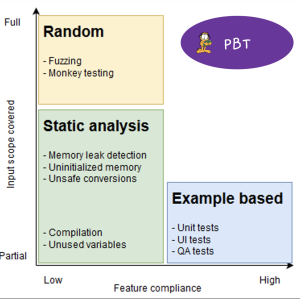
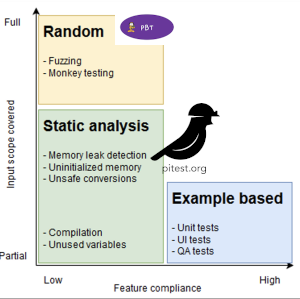
added Pit example

Changed region(s): [[0.36, 0.0301, 0.99, 0.2408], [0.48, 0.3311, 0.75, 0.602]]

diff --git a/src/test/java/com/example/pbt/pit/MathCalculatorTest.java b/src/test/java/com/example/pbt/pit/MathCalculatorTest.java
@@ -1,0 +1,29 @@
+package com.example.pbt.pit;
+
+import org.junit.jupiter.api.Assertions;
+import org.junit.jupiter.api.Test;
+import org.springframework.beans.factory.annotation.Autowired;
+import org.springframework.boot.test.context.SpringBootTest;
+
+@SpringBootTest
+public class MathCalculatorTest {
+
+    @Autowired
+    MathCalculator calc;
+
+    @Autowired
+    MathCalculator2 calc2;
+
+    @Test
+    public void complete() {
+        Assertions.assertEquals(0, calc.getAbsDouble(0, 1));
+        Assertions.assertEquals(12, calc.getAbsDouble(5, 2));
+        Assertions.assertEquals(12, calc.getAbsDouble(-5, 2));
+    }
+
+    @Test
+    public void onlyPositiveCaseTest() {
+        Assertions.assertEquals(12, calc2.getAbsDouble(5, 2));
+    }
+
+}

diff --git a/src/main/java/com/example/pbt/pit/MathCalculator2.java b/src/main/java/com/example/pbt/pit/MathCalculator2.java
@@ -1,0 +1,26 @@
+package com.example.pbt.pit;
+
+import org.springframework.stereotype.Service;
+
+@Service
+public class MathCalculator2 {
+
+    /**
+     * Utility
+     *
+     * @param i the input
+     * @param j param to be added
+     * @return double of absolute input and add second parameterm
+     */
+    public Integer getAbsDouble(Integer i, Integer j) {
+        if (i == 0) return 0;
+
+        int ret = 0;
+
+        if (i < 0) i = i * -1;
+        i = i * 2;
+        i = i + j;
+        return i;
+
+    }
+}

diff --git a/src/main/java/com/example/pbt/pit/MathCalculator.java b/src/main/java/com/example/pbt/pit/MathCalculator.java
@@ -1,0 +1,26 @@
+package com.example.pbt.pit;
+
+import org.springframework.stereotype.Service;
+
+@Service
+public class MathCalculator {
+
+    /**
+     * Utility
+     *
+     * @param i the input
+     * @param j param to be added
+     * @return double of absolute input and add second parameterm
+     */
+    public Integer getAbsDouble(Integer i, Integer j) {
+        if (i == 0) return 0;
+
+        int ret = 0;
+
+        if (i < 0) i = i * -1;
+        i = i * 2;
+        i = i + j;
+        return i;
+
+    }
+}

diff --git a/README.md b/README.md
@@ -6,23 +6,28 @@
 * Lombok&Ereditance (Original idea to solve UC style problem) 
 * System.Logger (Thanks to Baeldung)
 * ehcache4Search (Original idea to solve UC crypt performance problem)
-* PIT testing (Thanks to Decathlon IT)
+* Mutation testing aka PIT testing (Thanks to Decathlon IT)
 
 ![Test types](img/tests.png?raw=true "Test types")
 
-Property based idea is to test "properties" (a funtion that returns a boolean) of code instead of examples
+**Property based** idea is to test "properties" (a funtion that returns a boolean) of code instead of examples
+
+**Mutation** idea is to modify code and check if test passes. If yes "mutation survives", this is a proxy versus test weakness. 
 
 
 ex:
 
-***Commutativity***: the parameter order does not matter
+**Commutativity**: the parameter order does not matter
 ```
 for all (int x, int y)
 such that (add(x, y) equals add(y, x)) is satisfied
 ```
-Documentation of library: [jqwik](https://jqwik.net/docs/current/user-guide.html#how-to-use)
+PBT library docs: [jqwik](https://jqwik.net/docs/current/user-guide.html#how-to-use)
 
-Documentaition for test containers: [Sprint test containers](https://www.testcontainers.org/)
+Test containers docs: [Sprint test containers](https://www.testcontainers.org/)
+
+PIT docs: [Real world mutation testing](https://pitest.org/)
+
 ## Prerequisites:
 Docker should be installed for test containers
 
@@ -30,5 +35,7 @@ Docker should be installed for test containers
 * RedisBackedCacheIntTest.java contains a test against a redis server, loaded by docker at test-time
 * Logger: example usage of System.LOGGER, can be used as is, if falls over found log system (like slf4j) or create your own logger, like in this example. Just add META-INF/services/ file indicating finder implementation
 * ehcache: example usage of ehcache as fast-inmemory full text replacement
+* MathCalculatorTest: two cases, one is complete so PIT shows 100% coverage, second one only 50% as it effectively is
 ## Usage
-just run ```./mvnw test```
+```./mvn test``` for all test
+```./mvn test-compile org.pitest:pitest-maven:mutationCoverage``` for PIT testing analisys 
